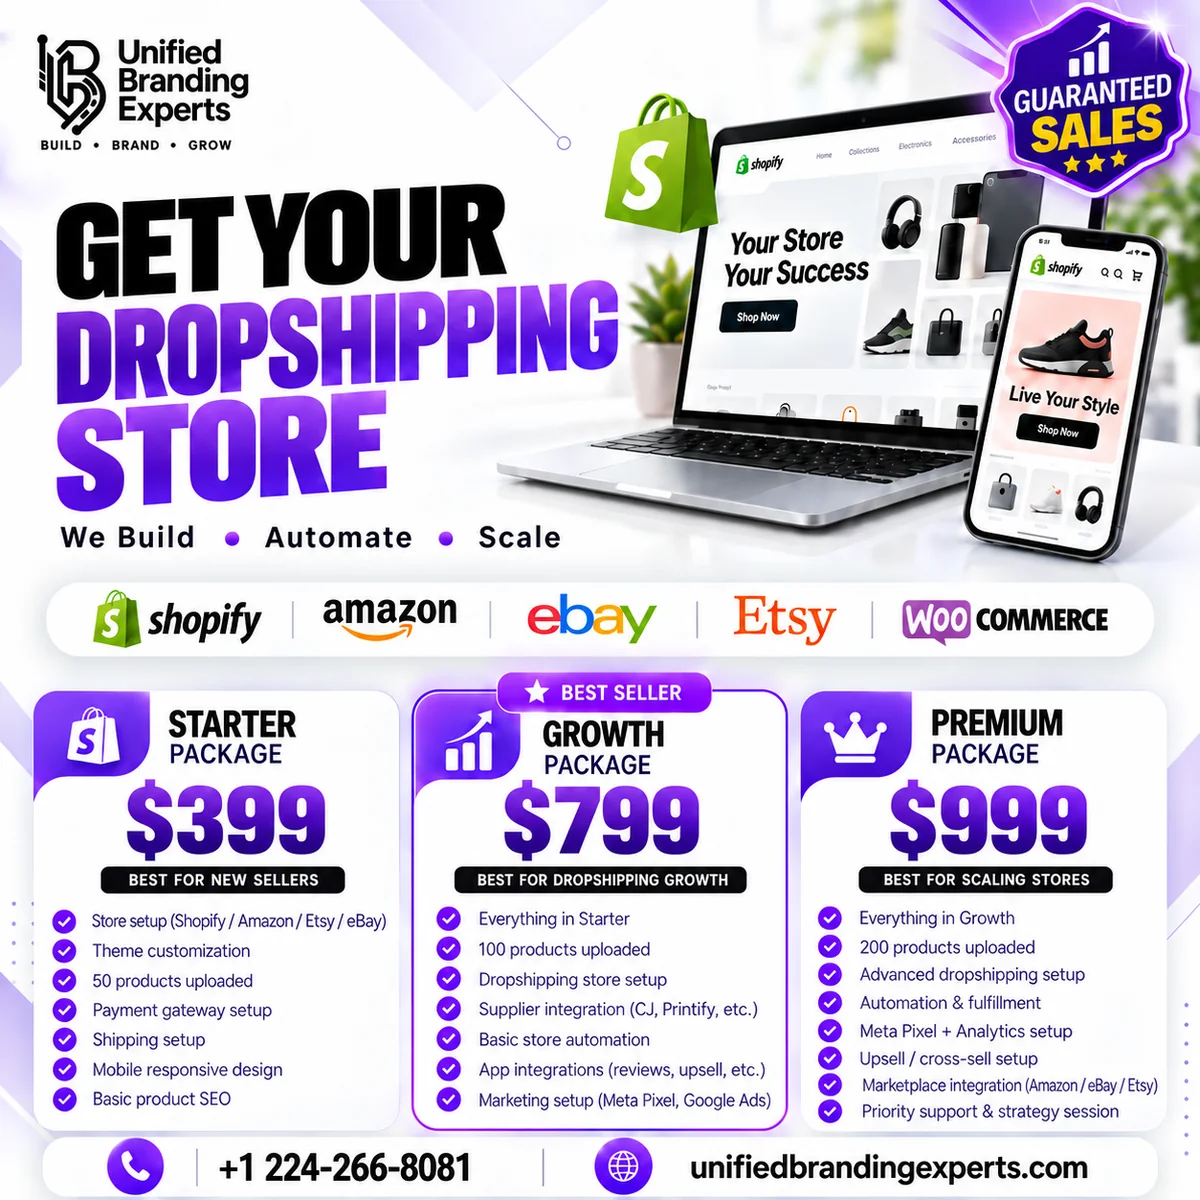
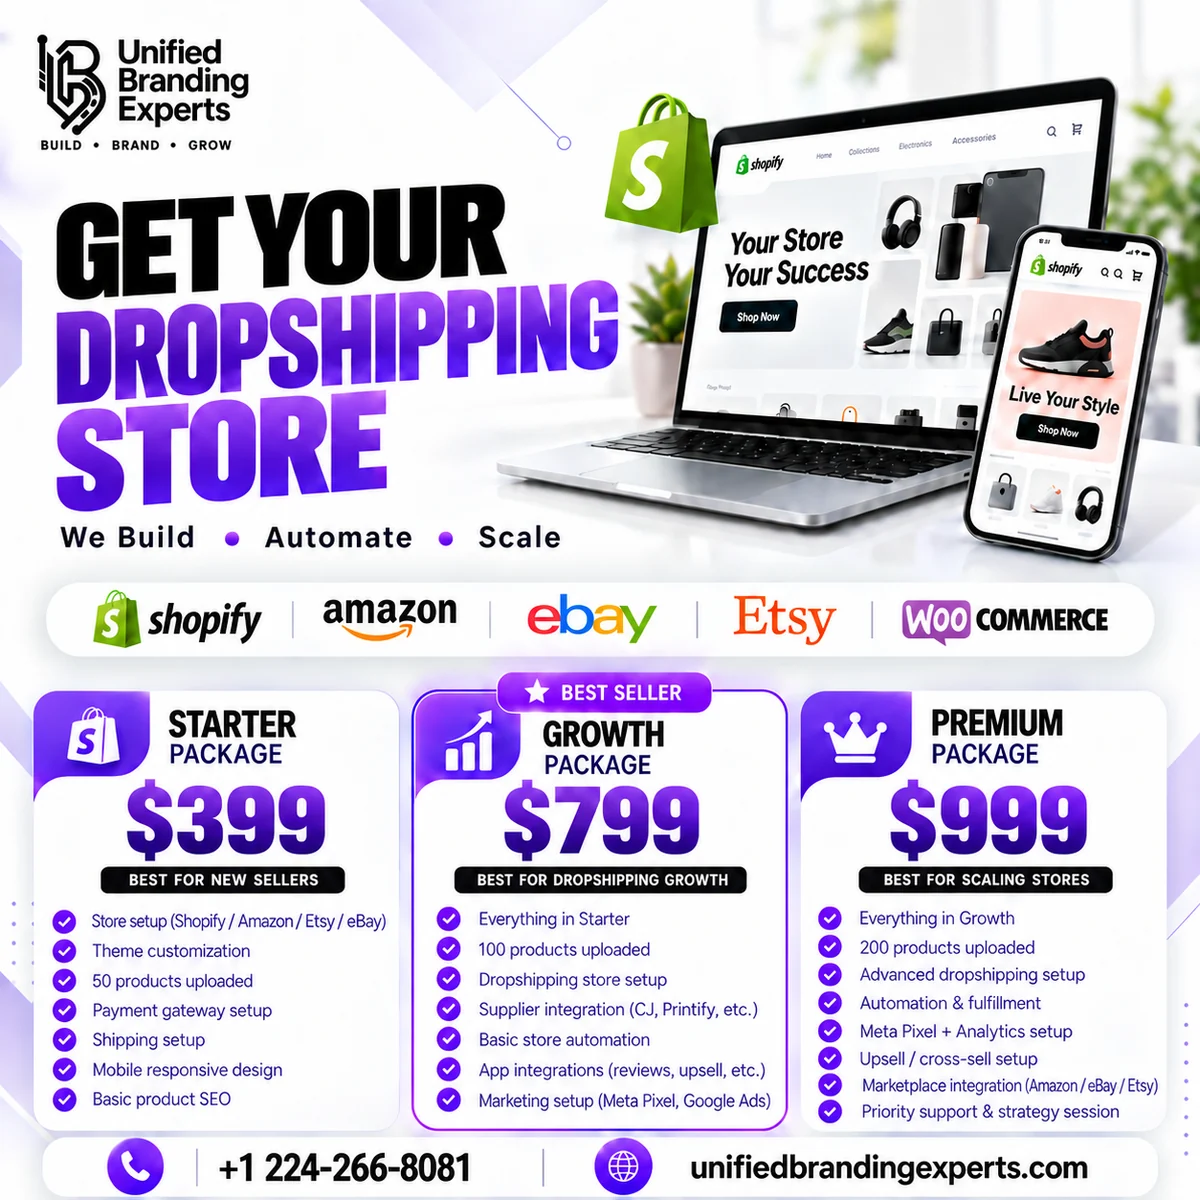
fix: use corrected store offer artwork without sales badge

diff --git a/src/app/dropshipping-store-offer/page.tsx b/src/app/dropshipping-store-offer/page.tsx
@@ -32,7 +32,7 @@ export default function DropshippingStoreOfferPage() {
           <a href="#compare" className="inline-flex min-h-12 items-center gap-2 rounded-full bg-[#9F8BE7] px-6 font-bold text-[#161616] hover:bg-[#b4a3f7]">Compare the three builds <ArrowRight className="h-4 w-4" /></a>
         </div>
         <div className="relative overflow-hidden rounded-[2rem] border border-[#E0DDDB] bg-white shadow-lg">
-          <div className="relative aspect-[16/10] overflow-hidden"><Image src="/images/offers/store-launch-offer.webp" alt="UBE store launch campaign creative showing Shopify storefront devices and dropshipping package tiers" fill priority sizes="(max-width: 1024px) 100vw, 48vw" className="object-cover object-center" />
+          <div className="relative aspect-[16/10] overflow-hidden"><Image src="/images/offers/store-launch-offer.webp" alt="UBE store launch campaign creative showing storefront devices and commerce platform marks" fill priority sizes="(max-width: 1024px) 100vw, 48vw" className="object-cover object-top" />
           </div>
           <p className="p-4 text-sm text-[#414141]">This campaign visual introduces the offer. The deliverables below and your signed project scope define the work for your store.</p>
         </div>
